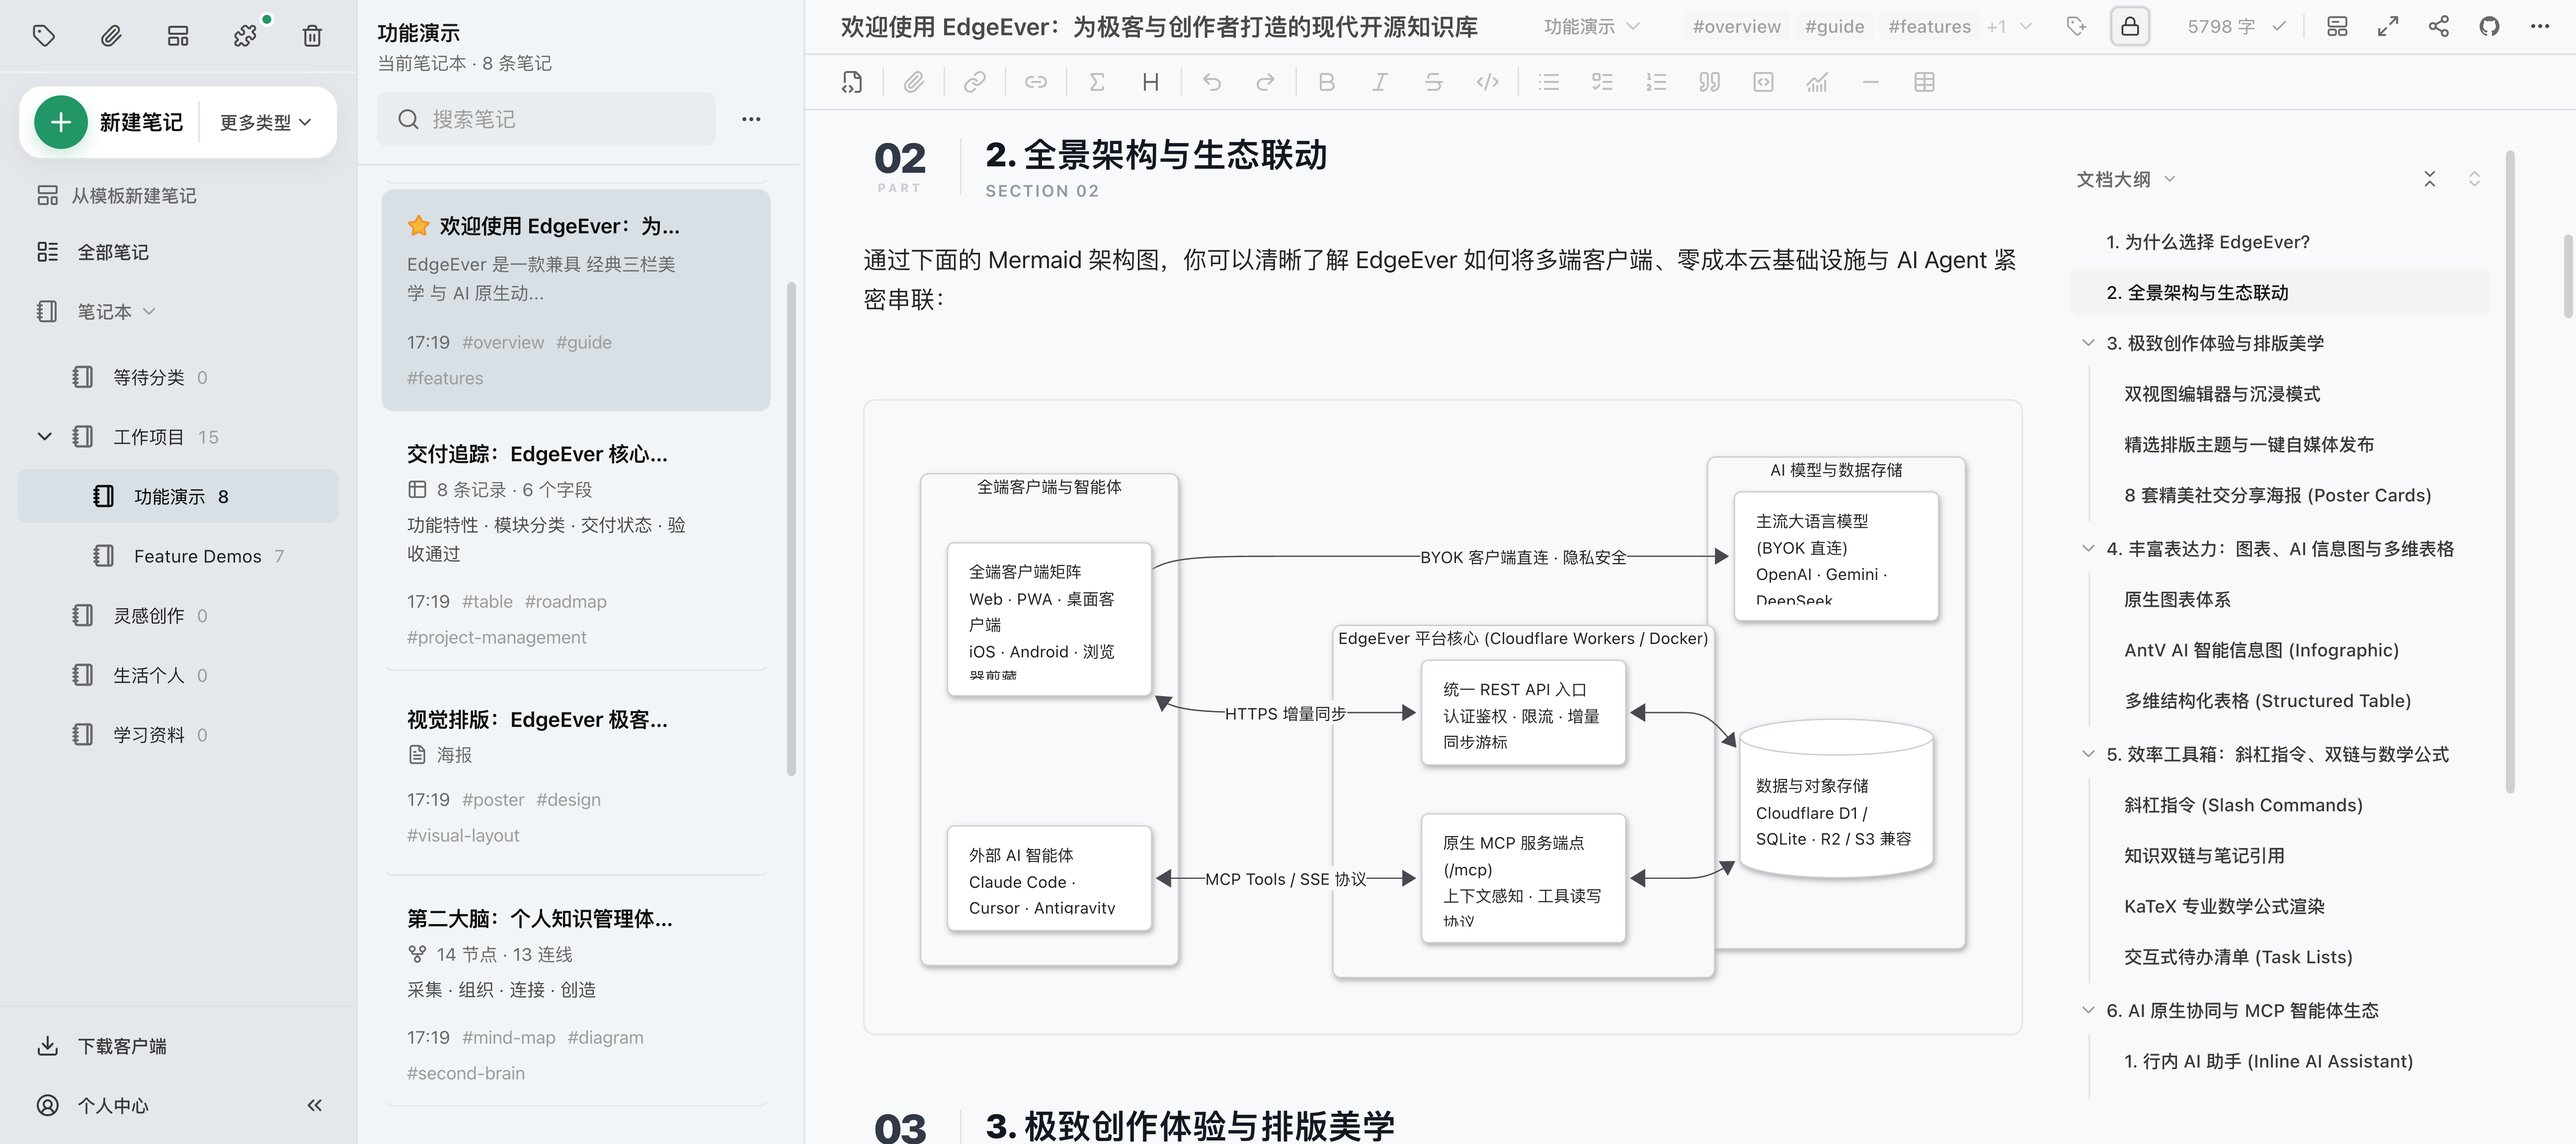
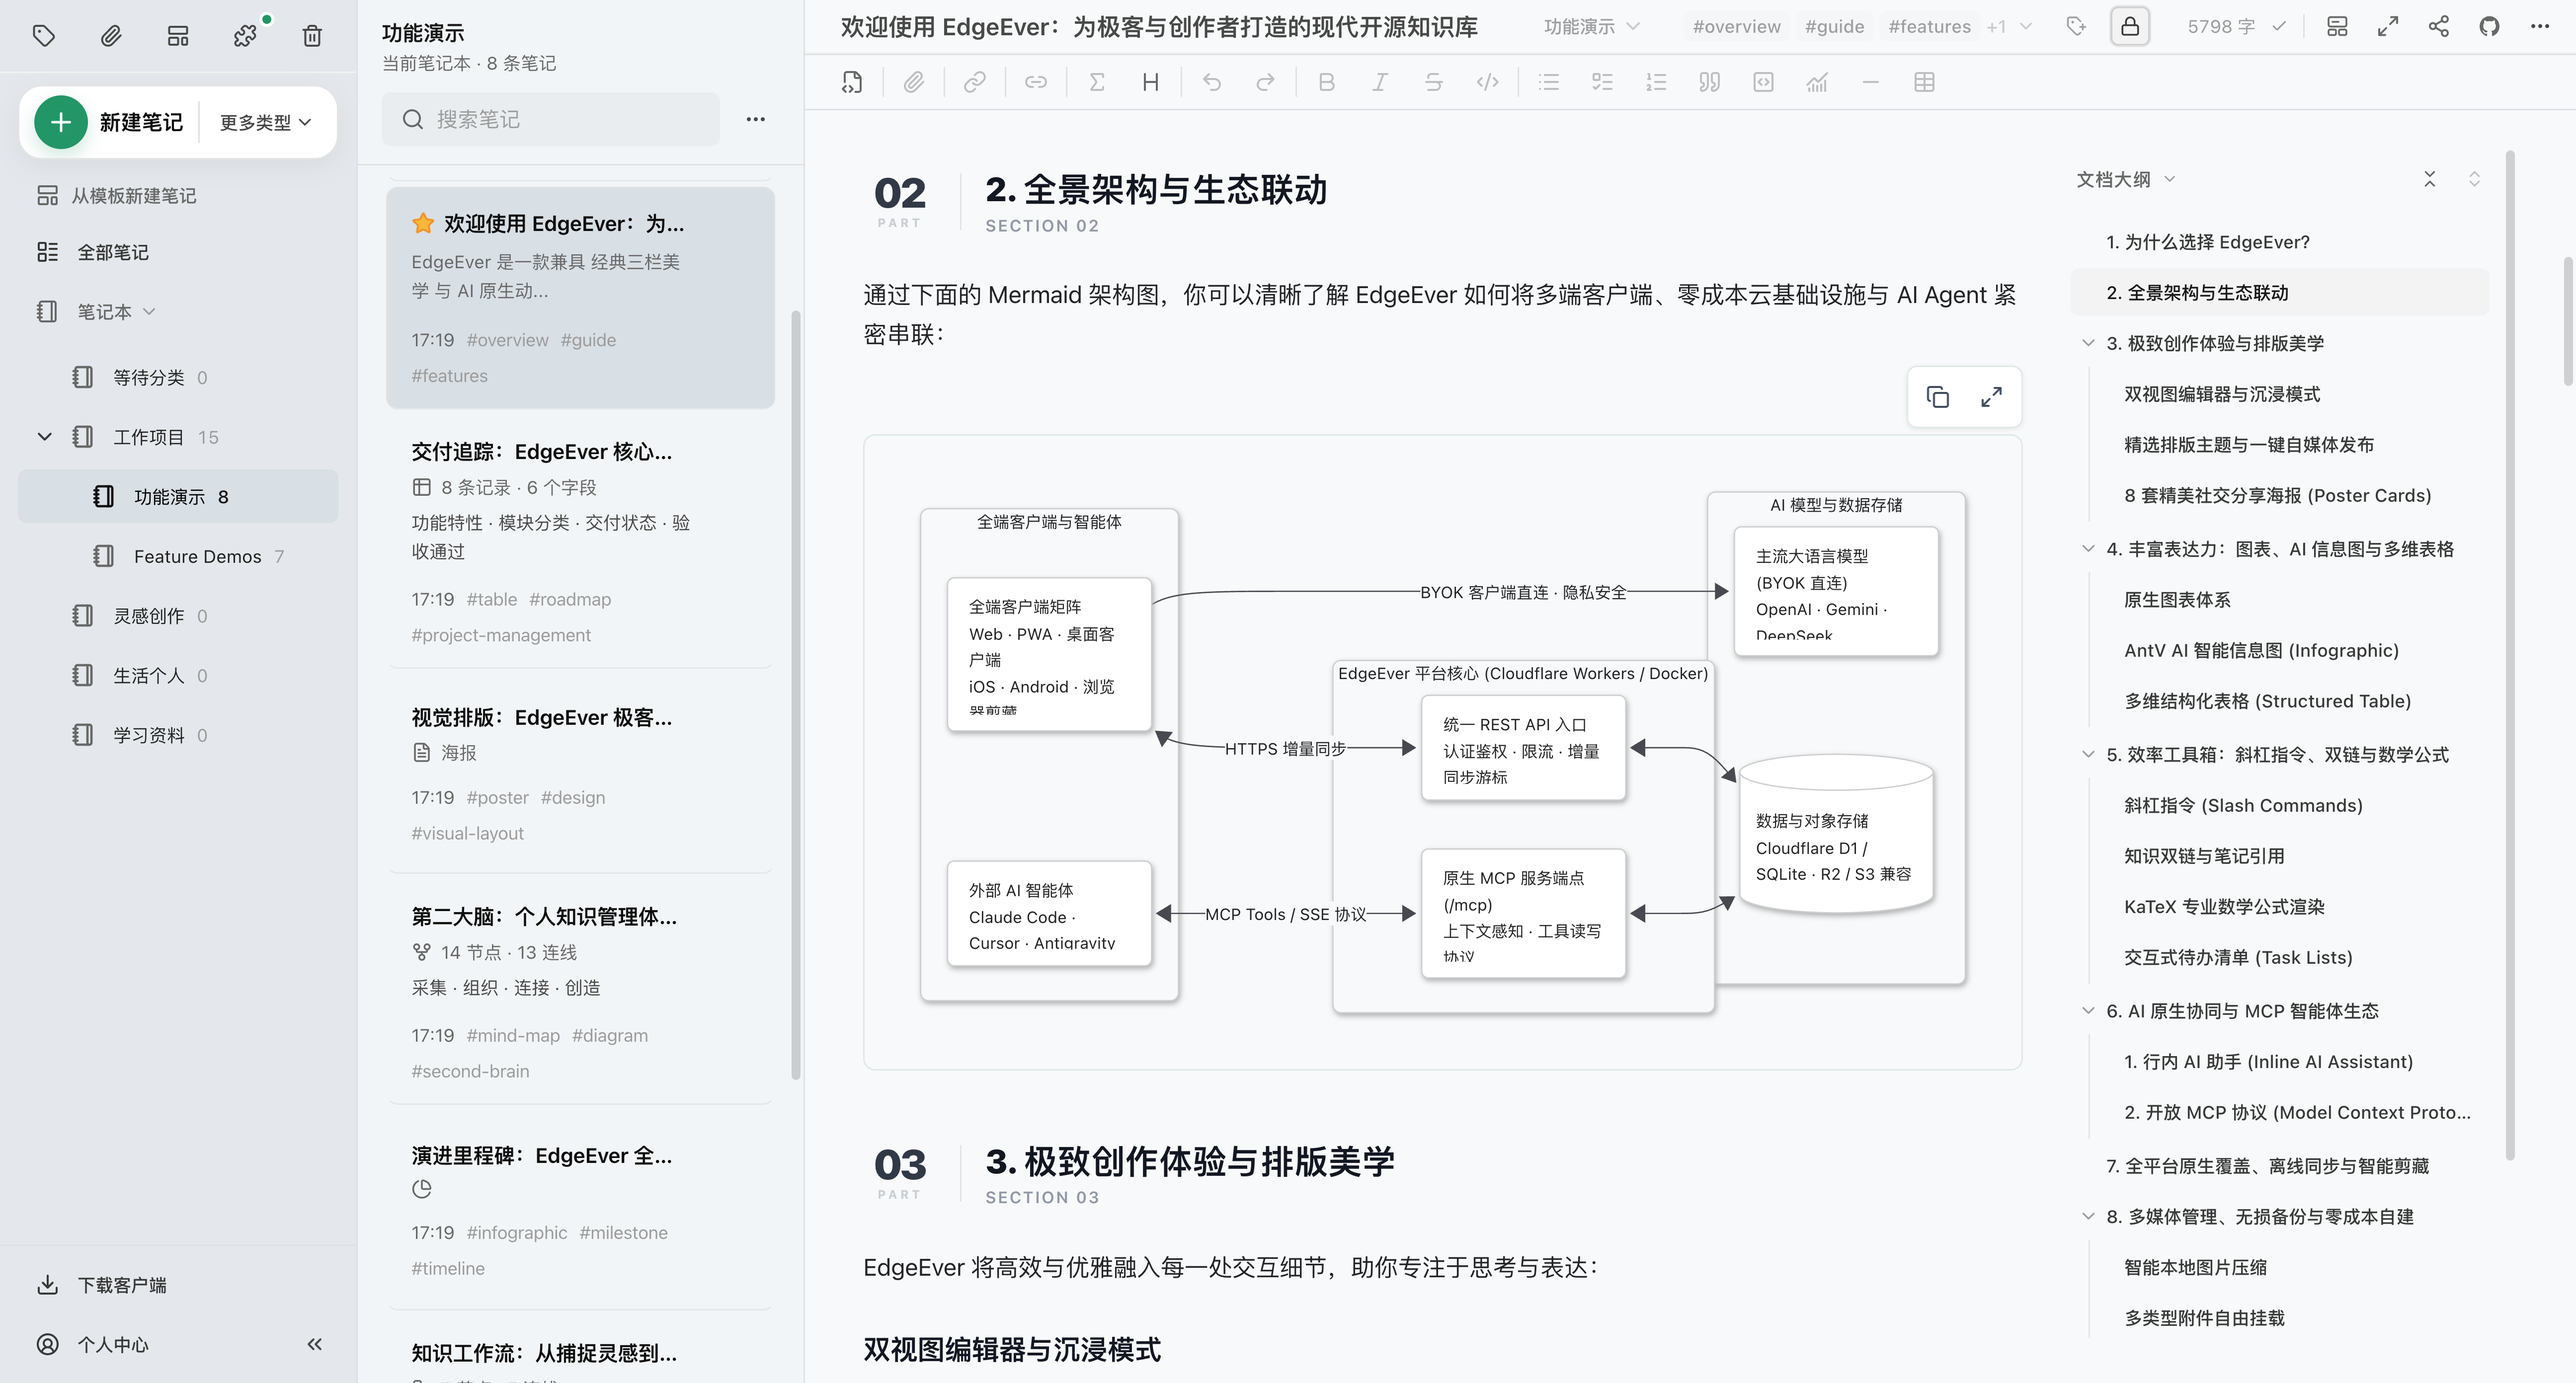
docs: remove hero tagline and expand desktop screenshot

diff --git a/assets/readme/hero-v8/hero.html b/assets/readme/hero-v8/hero.html
@@ -1,3 +1,3 @@
 <!doctype html><html><head><meta charset="utf-8"><title>EdgeEver Hero — clean Demo screenshots</title><style>
-*{box-sizing:border-box}html,body{margin:0;background:#f5f5f4;font-family:Arial,Helvetica,sans-serif}main{width:100%;aspect-ratio:16/9;position:relative;overflow:hidden;background:radial-gradient(ellipse at 55% 30%,#fff,#f2f3f2 85%)}header{position:absolute;top:4.2%;left:4.2%;color:#07130b}h1{font-size:clamp(20px,3vw,60px);line-height:1;margin:0 0 12px;font-weight:750;letter-spacing:-.045em}p{font-size:clamp(11px,1.55vw,30px);color:#626665;margin:0;letter-spacing:-.025em}.desktop{position:absolute;left:3.7%;top:20%;width:83.5%;border:1px solid #a4a8a5;border-radius:14px;overflow:hidden;background:#f6f7f8;box-shadow:0 22px 40px #18221b22,0 4px 12px #18221b0d}.bar{height:30px;background:linear-gradient(#f9fafb,#e8e9ec);display:flex;align-items:center;gap:8px;padding:0 15px;border-bottom:1px solid #d3d7d9}.bar i{height:12px;width:12px;border-radius:50%;background:#ff6059}.bar i:nth-child(2){background:#ffbd2e}.bar i:nth-child(3){background:#28c840}.desktop img{width:100%;display:block}.phone{position:absolute;right:3.4%;top:27%;width:17.4%;padding:7px;border:2px solid #5e625f;border-radius:34px;background:linear-gradient(115deg,#777,#171b18 18%,#080a08 85%,#777);box-shadow:0 18px 32px #1620192e,0 2px 6px #0003}.phone img{display:block;width:100%;height:auto;border-radius:26px}
-</style></head><body><main><header><h1>EdgeEver</h1><p>Your knowledge. Across devices.</p></header><div class="desktop"><div class="bar"><i></i><i></i><i></i></div><img src="desktop-source.png" alt="Clean local Demo in EdgeEver Web"></div><div class="phone"><img src="phone-source.png" alt="Actual Android native screenshot of the same overview note"></div></main></body></html>
+*{box-sizing:border-box}html,body{margin:0;background:#f5f5f4;font-family:Arial,Helvetica,sans-serif}main{width:100%;aspect-ratio:16/9;position:relative;overflow:hidden;background:radial-gradient(ellipse at 55% 30%,#fff,#f2f3f2 85%)}header{position:absolute;top:4.2%;left:4.2%;color:#07130b}h1{font-size:clamp(20px,3vw,60px);line-height:1;margin:0 0 12px;font-weight:750;letter-spacing:-.045em}.desktop{position:absolute;left:3.7%;top:12%;width:83.5%;border:1px solid #a4a8a5;border-radius:14px;overflow:hidden;background:#f6f7f8;box-shadow:0 22px 40px #18221b22,0 4px 12px #18221b0d}.bar{height:30px;background:linear-gradient(#f9fafb,#e8e9ec);display:flex;align-items:center;gap:8px;padding:0 15px;border-bottom:1px solid #d3d7d9}.bar i{height:12px;width:12px;border-radius:50%;background:#ff6059}.bar i:nth-child(2){background:#ffbd2e}.bar i:nth-child(3){background:#28c840}.desktop img{width:100%;display:block}.phone{position:absolute;right:3.4%;top:27%;width:17.4%;padding:7px;border:2px solid #5e625f;border-radius:34px;background:linear-gradient(115deg,#777,#171b18 18%,#080a08 85%,#777);box-shadow:0 18px 32px #1620192e,0 2px 6px #0003}.phone img{display:block;width:100%;height:auto;border-radius:26px}
+</style></head><body><main><header><h1>EdgeEver</h1></header><div class="desktop"><div class="bar"><i></i><i></i><i></i></div><img src="desktop-source.png" alt="Clean local Demo in EdgeEver Web"></div><div class="phone"><img src="phone-source.png" alt="Actual Android native screenshot of the same overview note"></div></main></body></html>
